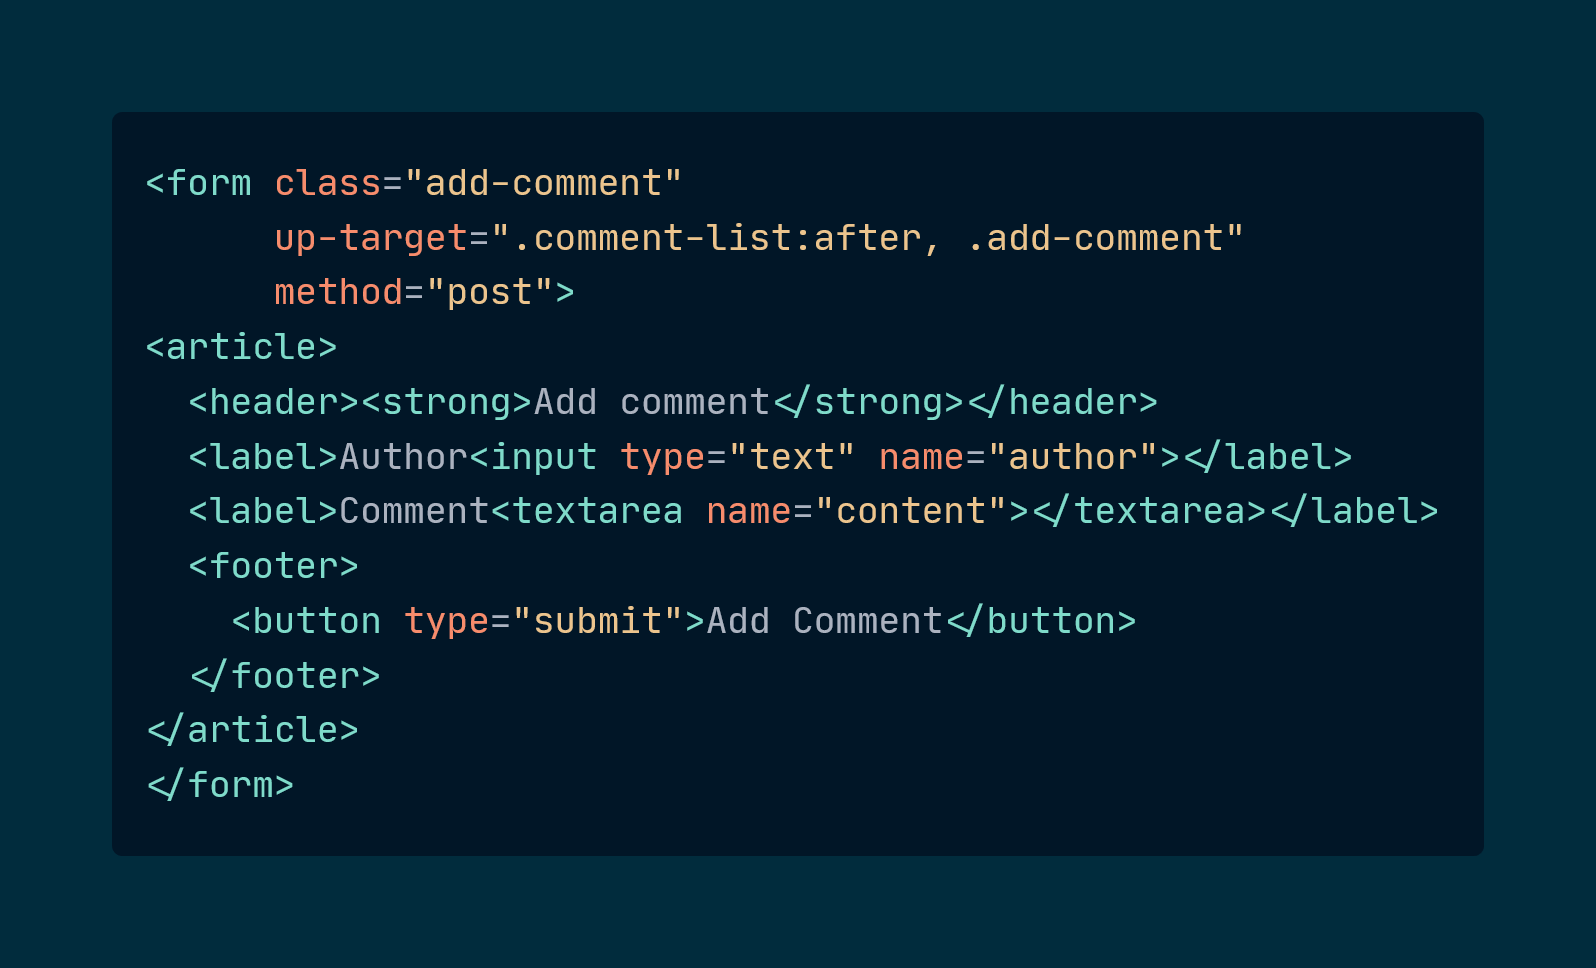
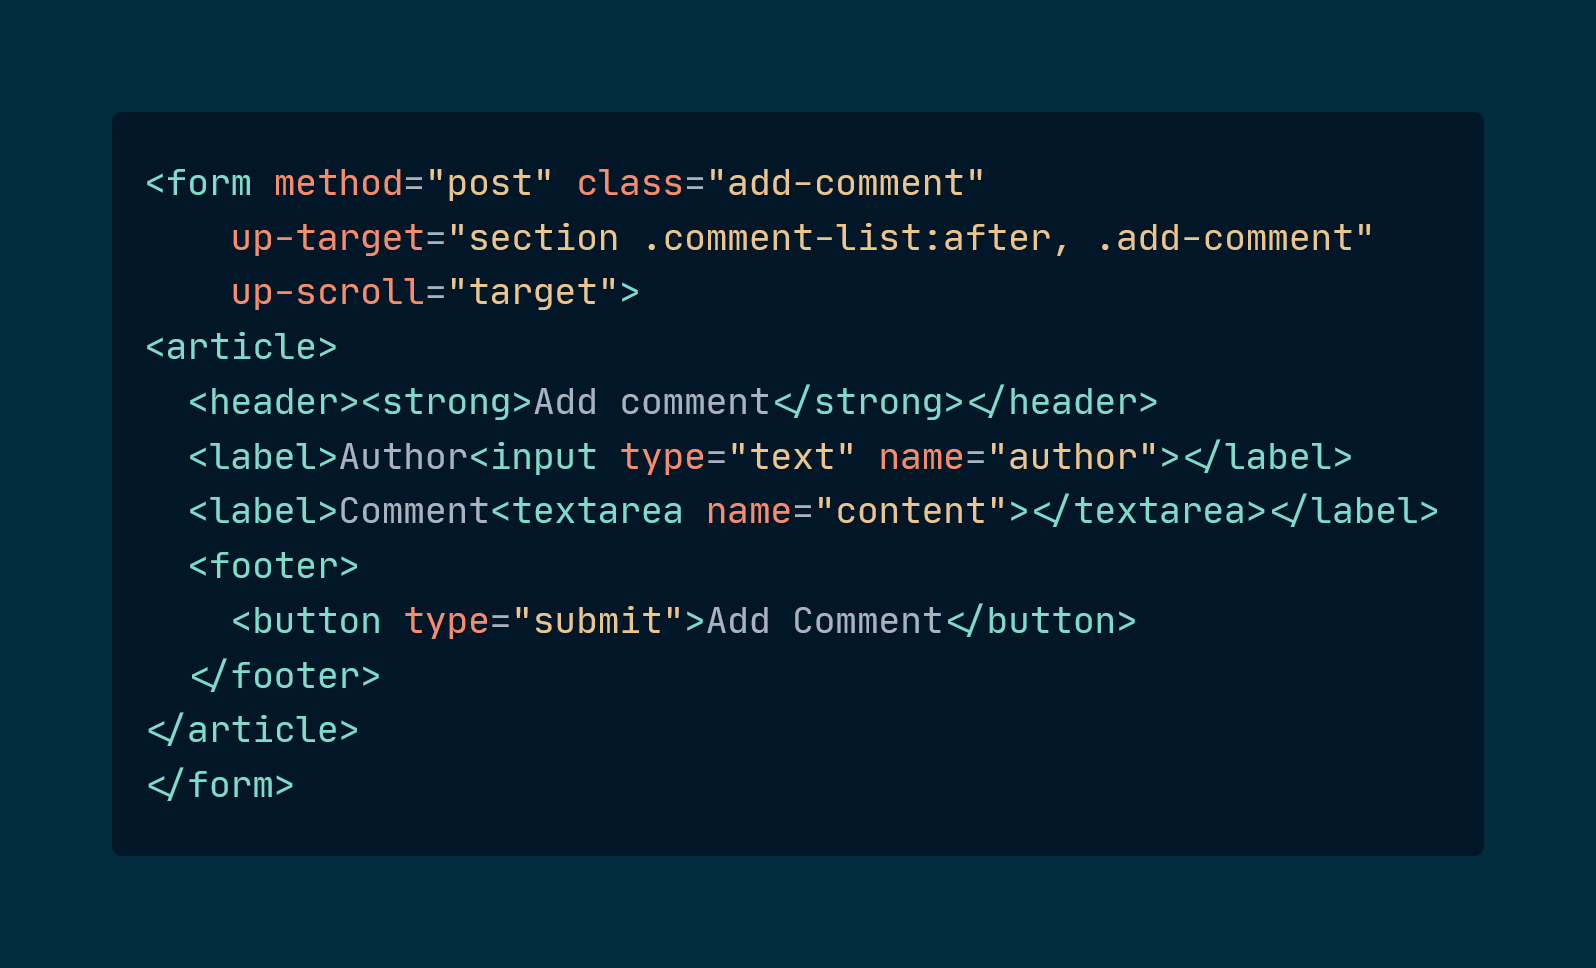
Fix new comment handling
Sibling elements need parent reference as well

Changed region(s): [[0.1535, 0.155, 0.8596, 0.3099], [0.5833, 0.155, 0.614, 0.186]]

diff --git a/src/main/java/io/zeromagic/unpolydemo/comment/CommentResource.java b/src/main/java/io/zeromagic/unpolydemo/comment/CommentResource.java
@@ -57,7 +57,7 @@ public class CommentResource {
       if (comment.count() == 1) {
         // if this is the first comment we need to retarget, otherwise
         // we'll append to list saying "No Comments".
-        response.header("X-Up-Target", ".comment-list,.add-comment");
+        response.header("X-Up-Target", "section .comment-list,.add-comment");
       }
       return response.build();
     }
